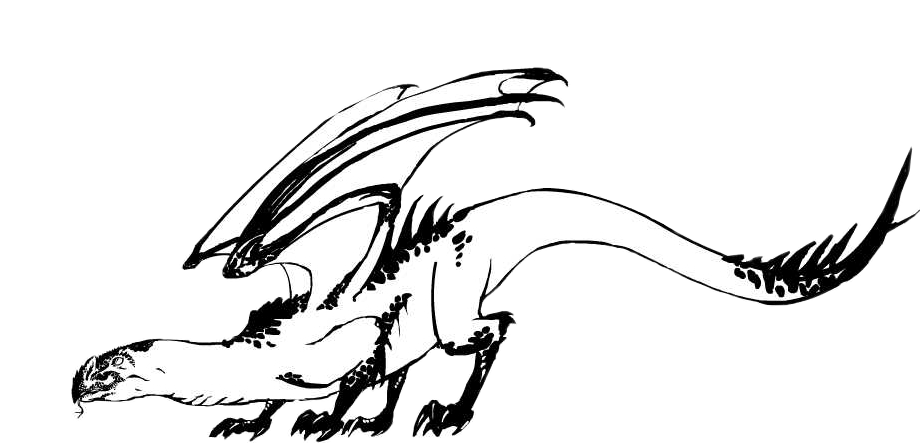
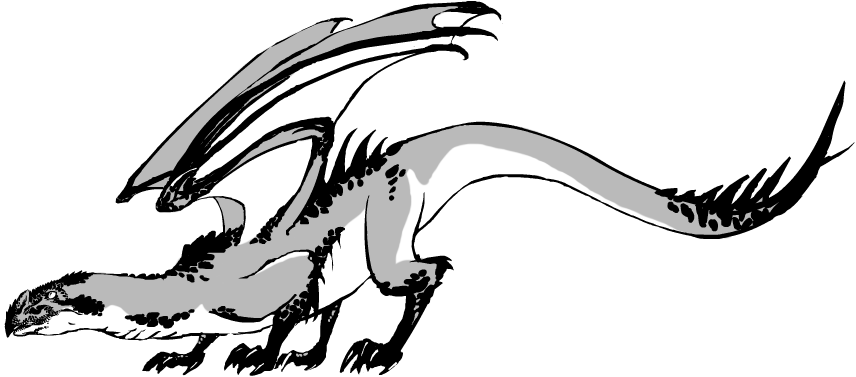
* added clean dragon sprite * fixed aesthetic issue with developer GRAFIX

Changed region(s): [[0.0, 0.0, 1.0, 1.0], [0.5771, 0.5252, 0.6682, 0.5836]]

diff --git a/src/project_viking.py b/src/project_viking.py
@@ -237,7 +237,7 @@ def main(level_file):
         dragonprog['palette'] = 1
         dragonprog['perturb'] = (ticks_done % 1024) / 128
         dragonprog['shift'] = ticks_done / 600
-        gl.glTranslated(-100, 100, 0)
+        gl.glTranslated(-100, 145, 0)
         with dragonbuf.bound:
             gl.glVertexAttribPointer(0, 4, gl.GL_FLOAT, gl.GL_FALSE, 0, 0)
             gl.glDrawArrays(gl.GL_TRIANGLE_FAN, 0, 4)

diff --git a/src/entities/shaders.py b/src/entities/shaders.py
@@ -127,7 +127,7 @@ void main() {
 _WALL_FS_SRC = r'''
 #version 120
 
-uniform vec4 color = vec4(0.0, 0.0, 0.89, 1.0);
+uniform vec4 color = vec4(5.0/255.0, 122.0/255.0, 79.0/255.0, 1.0);
 
 void main() {
     gl_FragColor = color;
